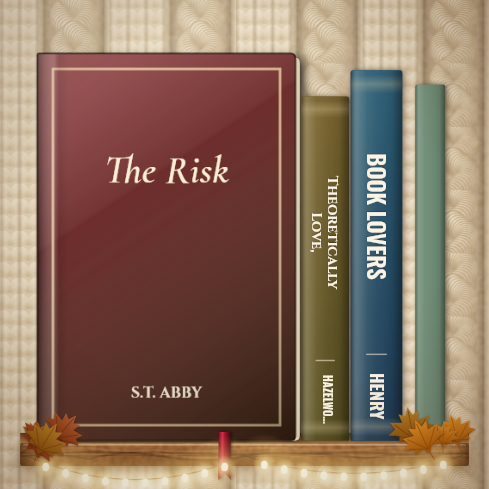
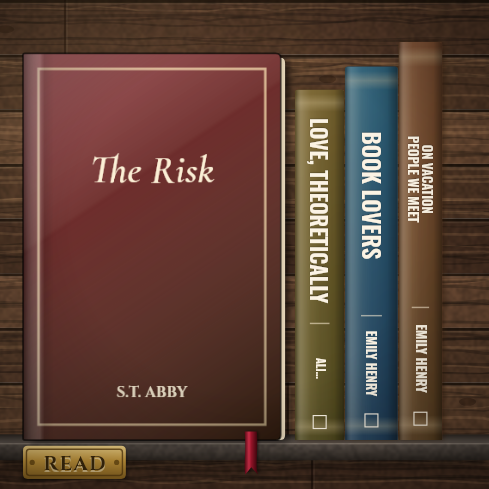
Default to the rustic look; only currently-reading books face out
Claude-Session: https://claude.ai/code/session_01DFpaGPqchzARfTBeW4za7c

diff --git a/enchanted-library-widget/EnchantedLibrary.js b/enchanted-library-widget/EnchantedLibrary.js
@@ -16,7 +16,7 @@
 // public shelf RSS feeds (Goodreads no longer offers an API).
 
 const CONFIG = {
-  theme: "cozy",                     // "cozy", "rustic" or "enchanted" (see README)
+  theme: "rustic",                   // "rustic", "cozy" or "enchanted" (see README)
   goodreadsUserId: "183463841",
   readingShelf: "currently-reading", // shown face-out with a ribbon bookmark ("" to skip)
   shelves: [                         // Goodreads shelves to show, top to bottom
@@ -2059,7 +2059,8 @@ function renderLibrary(canvas, scene, makeCanvas) {
 
     let queue = [];
     const covers = scene.covers.slice();
-    const groups = ["spines", "stack", "spines", "cover"];
+    // Only the currently-reading books face out; the rest stand as spines.
+    const groups = ["spines"];
     let g = 0;
 
     for (let s = 0; s < shelves; s++) {

diff --git a/enchanted-library-widget/tools/preview.js b/enchanted-library-widget/tools/preview.js
@@ -27,7 +27,7 @@ const SIZES = {
   large: [Math.round(SCREEN_W * 0.86), Math.round(SCREEN_W * 0.86 * 1.05)],
 };
 const CONFIG = {
-  theme: process.env.THEME || "cozy", libraryName: "My Library", fillEmptySpace: true,
+  theme: process.env.THEME || "rustic", libraryName: "My Library", fillEmptySpace: true,
   showRose: true, showCandle: true, showPlant: true, showLights: true, showLeaves: true,
   showLamp: true, showClock: true, showLabels: true,
   readingShelf: "currently-reading",

diff --git a/enchanted-library-widget/README.md b/enchanted-library-widget/README.md
@@ -2,14 +2,14 @@
 
 An iPhone home-screen widget for the [Scriptable](https://scriptable.app) app that shows your Goodreads books on a bookshelf. It comes in three looks:
 
-- **Cozy** (the default): floating wooden shelves on a cream cable-knit background, with fairy lights, autumn leaves, a potted plant and trailing ivy. Your books mix face-out covers with spines made from each cover's colors.
-- **Rustic**: a weathered wood-plank wall with slim shelves, brass shelf labels, a glowing table lamp and a brass alarm clock. Books stand as spines with the title and author, lie in stacks, or face out.
+- **Cozy**: floating wooden shelves on a cream cable-knit background, with fairy lights, autumn leaves, a potted plant and trailing ivy. Your books mix face-out covers with spines made from each cover's colors.
+- **Rustic** (the default): a weathered wood-plank wall with slim shelves, brass shelf labels, a glowing table lamp and a brass alarm clock. Books stand as spines with the title and author, and each shelf has a brass label.
 - **Enchanted**: a candle-lit, dark-wood library inspired by the Beast's library in *Beauty and the Beast*, with an arched gilded bookcase, leather-bound spines, a brass candlestick and the rose under glass.
 
 Either way:
 
 - **Currently reading:** cover facing out, with a red ribbon bookmark
-- **Read:** your most recently finished books, as spines with the title and author, mixed with face-out covers (and stacks, in the rustic look)
+- **Read:** your most recently finished books, as spines with the title and author (the cozy look also turns some covers face-out)
 - **To-read (TBR):** a second shelf of books on the large widget. Small and medium widgets show only Read.
 - Leftover space fills with a stack of books and some untitled volumes
 
@@ -17,7 +17,7 @@ Either way:
 |---|---|---|
 | ![small](previews/preview-small.png) | ![medium](previews/preview-medium.png) | ![large](previews/preview-large.png) |
 
-Rustic look: ![rustic](previews/preview-rustic-medium.png)
+Cozy look: ![cozy](previews/preview-cozy-medium.png)
 
 Enchanted look: ![enchanted](previews/preview-enchanted-medium.png)
 
@@ -41,7 +41,7 @@ Edit the `CONFIG` block at the top of the script:
 
 | Setting | What it does |
 |---|---|
-| `theme` | `"cozy"`, `"rustic"` or `"enchanted"` |
+| `theme` | `"rustic"`, `"cozy"` or `"enchanted"` |
 | `goodreadsUserId` | The number in your profile URL (`183463841`) |
 | `readingShelf` | Shelf shown face-out with ribbons, at the front of the top shelf (`currently-reading`; `""` to skip) |
 | `shelves` | Shelves to show, top to bottom, each with the label shown on its brass plaque in the rustic look (`read` labeled "Read", then `to-read` labeled "TBR"). Large widgets show one shelf of books per entry; small and medium show only the first. |
